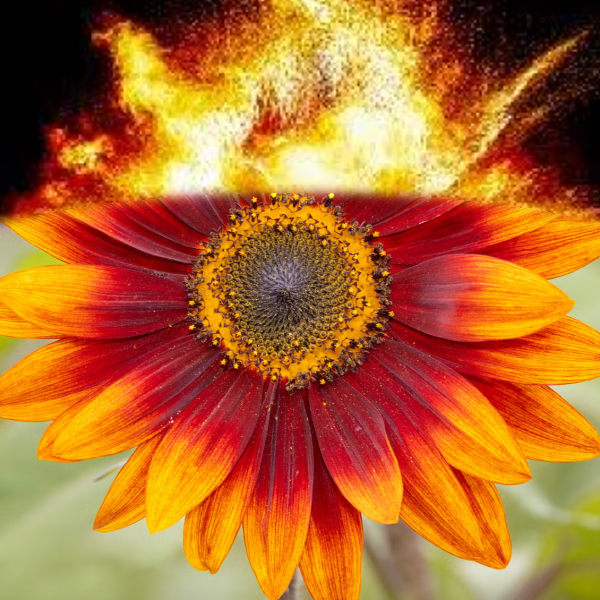
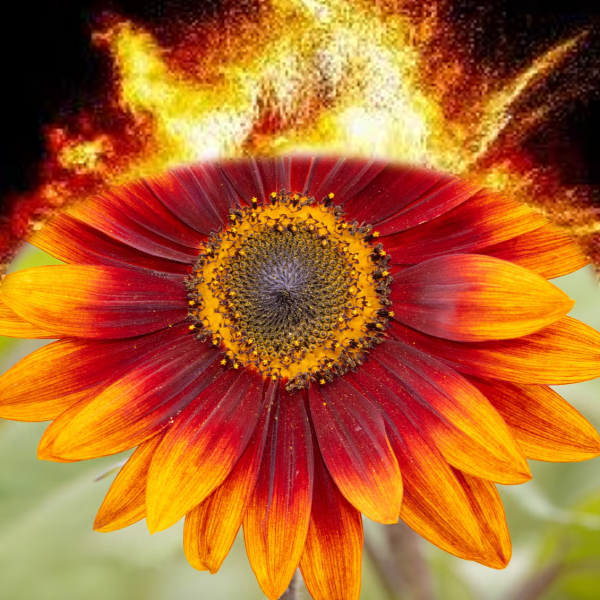
Make sunflower explosion arch more pronounced

Changed region(s): [[0.12, 0.24, 0.87, 0.36], [0.9, 0.33, 1.0, 0.48], [0.0, 0.33, 0.09, 0.48]]

diff --git a/projects/project2/index.html b/projects/project2/index.html
@@ -520,7 +520,7 @@ blend = multiresolution_blend(explosion, sunflower, mask)</code></pre>
               <figure><img src="sunflower_explosion_prepared_inputs.png" alt="Prepared sunflower and explosion inputs"><figcaption>Prepared inputs</figcaption></figure>
               <figure><img src="sunflower_explosion_semicircle_mask.png" alt="Mask with an upward arch in its lower edge to reveal the sunflower center"><figcaption>Upward-curving mask</figcaption></figure>
               <figure class="blend-process"><img src="sunflower_explosion_laplacian_blend.png" alt="Laplacian stack contributions and combined levels for the sunflower and explosion blend"><figcaption>Laplacian-stack process</figcaption></figure>
-              <figure class="blend-final"><img src="sunflower_explosion_blend.png" alt="Explosion with an upward-curving lower edge revealing the sunflower center"><figcaption>Explosion arching above the sunflower center</figcaption></figure>
+              <figure class="blend-final"><img src="sunflower_explosion_blend.png?v=2" alt="Explosion with a pronounced upward-curving lower edge revealing the sunflower center"><figcaption>Explosion arching above the sunflower center</figcaption></figure>
             </div>
           </section>
         </article>

diff --git a/projects/project2/blend.py b/projects/project2/blend.py
@@ -47,8 +47,8 @@ def upper_semicircle_mask(shape):
     y, x = np.mgrid[:height, :width]
     cx = width / 2
     cy = height * 0.50
-    rx = width * 0.72
-    rise = height * 0.18
+    rx = width * 0.50
+    rise = height * 0.24
     normalized_x = np.clip((x - cx) / rx, -1, 1)
     boundary = cy - rise * np.sqrt(1 - normalized_x ** 2)
     mask = y <= boundary
